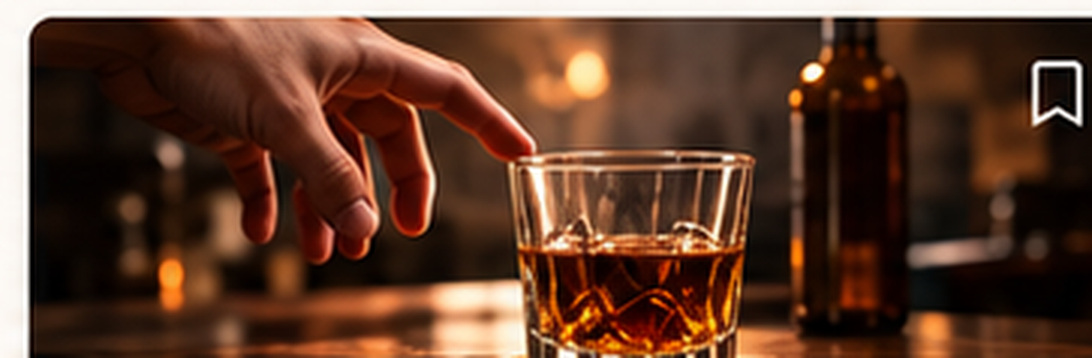
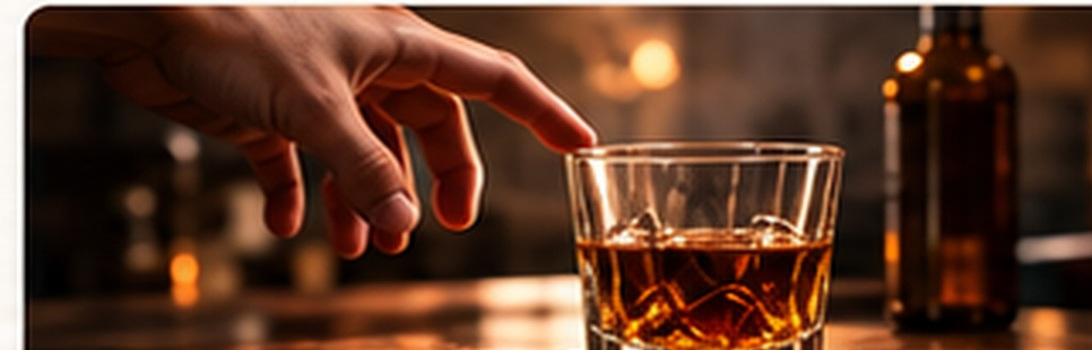
79

diff --git a/index.html b/index.html
@@ -71,10 +71,10 @@
     <span><b>PsyLab</b><small>APPRENDRE · S’ENTRAÎNER · PROGRESSER</small></span>
   </a>
   <nav class="ps-nav ps77-nav" aria-label="Navigation principale">
-    <a class="active" href="index.html"><svg class="ps77-nav-icon" viewBox="0 0 24 24" fill="none" stroke="currentColor" aria-hidden="true"><path d="M4 10.75 12 4l8 6.75"></path><path d="M6.5 9.7V20h11V9.7"></path><path d="M9.5 20v-6h5v6"></path></svg><span>Accueil</span></a>
+    <a class="active" href="index.html"><svg class="ps77-nav-icon ps77-nav-home" viewBox="0 0 24 24" aria-hidden="true"><path d="M3.6 10.6 12 3.7l8.4 6.9v9.1a1.4 1.4 0 0 1-1.4 1.4h-4.5v-6.2h-5v6.2H5a1.4 1.4 0 0 1-1.4-1.4v-9.1Z"/></svg><span>Accueil</span></a>
     <a href="labs.html"><svg viewBox="0 0 24 24" fill="none" stroke="currentColor"><path d="M12 3 3 8l9 5 9-5-9-5Z"></path><path d="m5 10 7 4 7-4v6l-7 4-7-4z"></path></svg><span>Labs</span></a>
     <a href="maintenance.html"><svg viewBox="0 0 24 24" fill="none" stroke="currentColor"><path d="M4 19V10M10 19V6M16 19v-8M22 19V3"></path></svg><span>Maintien</span></a>
-    <a href="competition.html"><svg class="ps77-nav-icon" viewBox="0 0 24 24" fill="none" stroke="currentColor" aria-hidden="true"><path d="M7 4h10v4a5 5 0 0 1-10 0V4Z"></path><path d="M7 6H4v1.5A4.5 4.5 0 0 0 8.5 12M17 6h3v1.5a4.5 4.5 0 0 1-4.5 4.5"></path><path d="M12 13v4M9 21h6M10 17h4"></path></svg><span>Le Vestiaire</span></a>
+    <a href="competition.html"><svg class="ps77-nav-icon ps77-nav-trophy" viewBox="0 0 24 24" aria-hidden="true"><path d="M7 3.5h10v3h3.2v2.1c0 3.3-2.2 5.9-5.4 6.4-.6.6-1.3 1.1-2.1 1.4v2.2h3.2v2H8.1v-2h3.2v-2.2c-.8-.3-1.5-.8-2.1-1.4-3.2-.5-5.4-3.1-5.4-6.4V6.5H7v-3Zm0 5H5.8v.1c0 1.7.8 3.1 2.2 3.8A7.7 7.7 0 0 1 7 8.5Zm10 0a7.7 7.7 0 0 1-1 3.9c1.4-.7 2.2-2.1 2.2-3.8v-.1H17Z"/></svg><span>Le Vestiaire</span></a>
     <a href="profile.html"><svg viewBox="0 0 24 24" fill="none" stroke="currentColor"><circle cx="12" cy="8" r="4"></circle><path d="M4.5 21a7.5 7.5 0 0 1 15 0"></path></svg><span>Profil</span></a>
   </nav>
   <div class="ps-actions ps77-actions">
@@ -98,7 +98,7 @@
 
   <section class="ps77-section ps77-labs-section">
     <div class="ps77-section-head">
-      <h2><svg class="ps77-section-icon ps77-labs-icon" viewBox="0 0 32 32" fill="none" stroke="currentColor" aria-hidden="true"><path d="m16 4 11 6-11 6L5 10l11-6Z"></path><path d="m5 15 11 6 11-6"></path><path d="m5 20 11 6 11-6"></path></svg><span data-copy="fr">Vos Labs</span><span data-copy="en">Your Labs</span></h2>
+      <h2><svg class="ps77-section-icon ps77-labs-icon" viewBox="0 0 32 32" aria-hidden="true"><path d="m16 3.5 12 6.4-12 6.4L4 9.9 16 3.5Zm-9.7 11L16 19.7l9.7-5.2 2.3 1.3L16 22.2 4 15.8l2.3-1.3Zm0 6L16 25.7l9.7-5.2 2.3 1.3L16 28.2 4 21.8l2.3-1.3Z"/></svg><span data-copy="fr">Vos Labs</span><span data-copy="en">Your Labs</span></h2>
       <a href="labs.html"><span data-copy="fr">Voir tous les Labs</span><span data-copy="en">See all Labs</span> <b>→</b></a>
     </div>
     <div class="ps77-labs" id="labsGrid"></div>
@@ -107,7 +107,7 @@
   <section class="ps77-section ps77-vestiaire-section">
     <a class="ps77-vestiaire" href="competition.html">
       <div class="ps77-vestiaire-copy">
-        <div class="ps77-vestiaire-title"><svg class="ps77-trophy-icon" viewBox="0 0 32 32" fill="none" stroke="currentColor" aria-hidden="true"><path d="M9 5h14v6a7 7 0 0 1-14 0V5Z"></path><path d="M9 8H5v2a6 6 0 0 0 6 6M23 8h4v2a6 6 0 0 1-6 6"></path><path d="M16 18v5M11 27h10M13 23h6"></path></svg><h2>Le Vestiaire</h2></div>
+        <div class="ps77-vestiaire-title"><svg class="ps77-trophy-icon" viewBox="0 0 40 40" aria-hidden="true"><path d="M11 5h18v5h5v3c0 5.9-3.9 10.6-9.5 11.4-1 1-2.2 1.8-3.5 2.3v3.8h5.5v3.5h-13v-3.5H19v-3.8a10.8 10.8 0 0 1-3.5-2.3C9.9 23.6 6 18.9 6 13v-3h5V5Zm0 9H9.5c.2 2.7 1.5 4.8 3.7 6a12.8 12.8 0 0 1-2.2-6Zm18 0a12.8 12.8 0 0 1-2.2 6c2.2-1.2 3.5-3.3 3.7-6H29Z"/></svg><h2>Le Vestiaire</h2></div>
         <h3><span data-copy="fr">Relevez le défi, entrez dans la compétition.</span><span data-copy="en">Take the challenge. Enter the competition.</span></h3>
         <p><span data-copy="fr">Deux challenges. Un classement. À vous de jouer.</span><span data-copy="en">Two challenges. One ranking. Your move.</span></p>
         <span class="ps77-vestiaire-cta"><span data-copy="fr">Accéder au Vestiaire</span><span data-copy="en">Enter the Vestiaire</span> <b>→</b></span>
@@ -125,10 +125,10 @@
 </main>
 
 <nav class="ps-mobile-nav ps77-mobile-nav" aria-label="Navigation mobile">
-<a class="active" href="index.html"><svg class="ps77-nav-icon" viewBox="0 0 24 24" fill="none" stroke="currentColor" aria-hidden="true"><path d="M4 10.75 12 4l8 6.75"></path><path d="M6.5 9.7V20h11V9.7"></path><path d="M9.5 20v-6h5v6"></path></svg><span>Accueil</span></a>
+<a class="active" href="index.html"><svg class="ps77-nav-icon ps77-nav-home" viewBox="0 0 24 24" aria-hidden="true"><path d="M3.6 10.6 12 3.7l8.4 6.9v9.1a1.4 1.4 0 0 1-1.4 1.4h-4.5v-6.2h-5v6.2H5a1.4 1.4 0 0 1-1.4-1.4v-9.1Z"/></svg><span>Accueil</span></a>
 <a href="labs.html"><svg viewBox="0 0 24 24" fill="none" stroke="currentColor"><path d="M12 3 3 8l9 5 9-5-9-5Z"></path><path d="m5 10 7 4 7-4v6l-7 4-7-4z"></path></svg><span>Labs</span></a>
 <a href="maintenance.html"><svg viewBox="0 0 24 24" fill="none" stroke="currentColor"><path d="M4 18V9M10 18V5M16 18v-7M22 18V2"></path></svg><span>Maintien</span></a>
-<a href="competition.html"><svg class="ps77-nav-icon" viewBox="0 0 24 24" fill="none" stroke="currentColor" aria-hidden="true"><path d="M7 4h10v4a5 5 0 0 1-10 0V4Z"></path><path d="M7 6H4v1.5A4.5 4.5 0 0 0 8.5 12M17 6h3v1.5a4.5 4.5 0 0 1-4.5 4.5"></path><path d="M12 13v4M9 21h6M10 17h4"></path></svg><span>Vestiaire</span></a>
+<a href="competition.html"><svg class="ps77-nav-icon ps77-nav-trophy" viewBox="0 0 24 24" aria-hidden="true"><path d="M7 3.5h10v3h3.2v2.1c0 3.3-2.2 5.9-5.4 6.4-.6.6-1.3 1.1-2.1 1.4v2.2h3.2v2H8.1v-2h3.2v-2.2c-.8-.3-1.5-.8-2.1-1.4-3.2-.5-5.4-3.1-5.4-6.4V6.5H7v-3Zm0 5H5.8v.1c0 1.7.8 3.1 2.2 3.8A7.7 7.7 0 0 1 7 8.5Zm10 0a7.7 7.7 0 0 1-1 3.9c1.4-.7 2.2-2.1 2.2-3.8v-.1H17Z"/></svg><span>Vestiaire</span></a>
 <a href="profile.html"><svg viewBox="0 0 24 24" fill="none" stroke="currentColor"><circle cx="12" cy="8" r="4"></circle><path d="M4.5 21a7.5 7.5 0 0 1 15 0"></path></svg><span>Profil</span></a>
 </nav>
 <button hidden id="logoutBtn"></button>

diff --git a/platform-v71.js b/platform-v71.js
@@ -8,7 +8,7 @@ function pct(ctx,key='bipolar'){if(preview&&key==='bipolar')return 46;const p=(c
 async function signedAvatar(c,path){if(!c||!path)return'';try{const {data,error}=await c.storage.from('avatars').createSignedUrl(path,3600);return error?'':data?.signedUrl||''}catch(_){return''}}
 function status(v,lang){v=String(v||'').toUpperCase();if(/^R[1-4]$/.test(v))return v;const fr={EXTERNE:'Externe',INTERNE:'Interne',ASSISTANT:'Assistant',PROFESSEUR:'Professeur'},en={EXTERNE:'Extern',INTERNE:'Intern',ASSISTANT:'Assistant',PROFESSEUR:'Professor'};return (lang==='en'?en:fr)[v]||v}
 function renderIdentity(ctx){const lang=window.PsyLabV60?.lang?.()||'fr',name=preview?'Nadia':(ctx?.profile?.display_name||ctx?.user?.user_metadata?.display_name||ctx?.user?.user_metadata?.full_name||ctx?.user?.email?.split('@')[0]||(lang==='en'?'User':'Utilisateur')),st=status(ctx?.profile?.professional_status||ctx?.profile?.residency_year,lang),h=new Date().getHours(),hello=lang==='en'?(h>=18?'Good evening':'Hello'):(h>=18?'Bonsoir':'Bonjour'),p=pct(ctx);if(q('#greeting'))q('#greeting').innerHTML=`${hello} <span>${esc(name)}</span>,`;if(q('#userMeta'))q('#userMeta').textContent=[st,`BipolarLab ${p}%`].filter(Boolean).join(' · ');if(q('#userName'))q('#userName').textContent=name;if(q('#userSub'))q('#userSub').textContent=st;if(q('#topAvatar')){q('#topAvatar').textContent=initials(name);signedAvatar(ctx?.client,ctx?.profile?.avatar_path).then(u=>{if(u&&q('#topAvatar'))q('#topAvatar').innerHTML=`<img src="${u}" alt="">`})}if(q('#resumePct'))q('#resumePct').textContent=p+'%';if(q('#resumeBar'))q('#resumeBar').style.width=p+'%'}
-function renderLabs(ctx){const lang=window.PsyLabV60?.lang?.()||'fr',box=q('#labsGrid');if(!box)return;const keys=['bipolar','psychosis','anxiety','addiction'];const previewPct={bipolar:38,psychosis:12,anxiety:0,addiction:0};box.innerHTML=keys.map(key=>{const active=key==='bipolar',p=preview?previewPct[key]:(active?pct(ctx,key):0),labels=display[lang]?.[key]||display.fr[key],href=active?'courses/bipolar/index.html':'labs.html',cta=active?(lang==='en'?'Resume Lab':'Reprendre le Lab'):(lang==='en'?'Start Lab':'Commencer le Lab');return `<a class="ps77-lab" href="${href}"><div class="ps77-lab-visual"><img src="${art[key]}" alt=""></div><div class="ps77-lab-body"><h3>${esc(labels[0])}</h3><p>${esc(labels[1])}</p><div class="ps77-lab-progress"><div class="ps-progress"><i style="width:${p}%"></i></div><strong>${p}%</strong></div><span class="ps77-lab-cta">${esc(cta)} <b>→</b></span></div></a>`}).join('')}
+function renderLabs(ctx){const lang=window.PsyLabV60?.lang?.()||'fr',box=q('#labsGrid');if(!box)return;const keys=['bipolar','psychosis','anxiety','addiction'];const previewPct={bipolar:38,psychosis:12,anxiety:0,addiction:0};box.innerHTML=keys.map(key=>{const active=key==='bipolar',p=preview?previewPct[key]:(active?pct(ctx,key):0),labels=display[lang]?.[key]||display.fr[key],href=active?'courses/bipolar/index.html':'labs.html',cta=active?(lang==='en'?'Resume Lab':'Reprendre le Lab'):(lang==='en'?'Start Lab':'Commencer le Lab');return `<a class="ps77-lab" href="${href}"><div class="ps77-lab-visual"><picture><source media="(max-width:860px)" srcset="assets/v79/mobile/${key==='psychosis'?'psychose':key==='anxiety'?'anxiete':key==='addiction'?'addicto':key}.jpg"><img src="${art[key]}" alt=""></picture><svg class="ps77-bookmark-icon" viewBox="0 0 24 28" aria-hidden="true"><path d="M5 3.5h14a1.5 1.5 0 0 1 1.5 1.5v19L12 18.8 3.5 24V5A1.5 1.5 0 0 1 5 3.5Z"/></svg></div><div class="ps77-lab-body"><h3>${esc(labels[0])}</h3><p>${esc(labels[1])}</p><div class="ps77-lab-progress"><div class="ps-progress"><i style="width:${p}%"></i></div><strong>${p}%</strong></div><span class="ps77-lab-cta">${esc(cta)} <b>→</b></span></div></a>`}).join('')}
 async function vestiaire(ctx){if(preview){q('#participantCount').textContent='126';q('#countdown').textContent='4 j';return}const c=ctx?.client;if(!c)return;try{const current=await c.rpc('get_current_challenge',{p_course_key:'bipolar'}),row=Array.isArray(current.data)?current.data[0]:current.data;if(!row)return;const lb=await c.rpc('get_challenge_leaderboard',{p_challenge_key:row.challenge_key,p_limit:100}),rows=lb.data||[];if(q('#participantCount'))q('#participantCount').textContent=String(rows.length);const end=new Date(row.ends_at);if(!Number.isNaN(end.getTime())){const rem=Math.max(0,end-Date.now()),d=Math.floor(rem/86400000),h=Math.floor((rem%86400000)/3600000);if(q('#countdown'))q('#countdown').textContent=`${d} j ${h} h`}}catch(_){}}
 function render(ctx){renderIdentity(ctx);renderLabs(ctx);vestiaire(ctx)}
 window.addEventListener('psylab:v60-ready',e=>render(e.detail));

diff --git a/psylab-home-v77.css b/psylab-home-v77.css
@@ -341,3 +341,115 @@
   .ps77-vestiaire{background-image:url('assets/v79/vestiaire-exact.jpg');background-position:58% center;min-height:164px}
   .ps77-vestiaire h2{font-size:1.88rem}.ps77-vestiaire h3{font-size:.94rem}
 }
+
+
+/* V79.3 — visual asset calibration: no baked UI chrome, full icons, dedicated mobile crops */
+.ps77-nav .ps77-nav-home,
+.ps77-mobile-nav .ps77-nav-home,
+.ps77-nav .ps77-nav-trophy,
+.ps77-mobile-nav .ps77-nav-trophy{
+  fill:currentColor!important;
+  stroke:none!important;
+  overflow:visible;
+}
+
+.ps77-section-icon.ps77-labs-icon{
+  fill:currentColor!important;
+  stroke:none!important;
+  overflow:visible;
+}
+
+.ps77-trophy-icon{
+  fill:#e4ad58!important;
+  stroke:none!important;
+  overflow:visible;
+  padding:1px;
+  box-sizing:border-box;
+}
+
+/* Lab illustrations are now clean assets.  Match the source ratio so the artwork
+   is shown in full instead of being cropped by object-fit: cover. */
+.ps77-lab-visual{
+  position:relative;
+  aspect-ratio:1092 / 350!important;
+  height:auto!important;
+  overflow:hidden;
+  background:#241512;
+}
+.ps77-lab-visual picture{
+  display:block;
+  width:100%;
+  height:100%;
+}
+.ps77-lab-visual picture img,
+.ps77-lab-visual>img{
+  width:100%;
+  height:100%;
+  display:block;
+  object-fit:fill!important;
+  object-position:center!important;
+}
+
+/* The bookmark is real UI now, not baked into the illustration. */
+.ps77-bookmark-icon{
+  position:absolute;
+  z-index:2;
+  top:10px;
+  right:10px;
+  width:20px;
+  height:24px;
+  fill:rgba(18,17,16,.28);
+  stroke:#fff;
+  stroke-width:1.8;
+  stroke-linejoin:round;
+  filter:drop-shadow(0 1px 2px rgba(0,0,0,.28));
+  overflow:visible;
+}
+
+/* Keep the large editorial scenes at their native proportions. */
+@media(min-width:861px){
+  .ps77-hero{
+    aspect-ratio:1600 / 340!important;
+    background-size:100% 100%!important;
+    background-position:center!important;
+  }
+  .ps77-vestiaire{
+    aspect-ratio:1600 / 350!important;
+    background-size:100% 100%!important;
+    background-position:center!important;
+  }
+}
+
+/* Dedicated mobile thumbnails are taken from the validated mobile composition.
+   They fill their slot without asking the desktop panorama to crop itself. */
+@media(max-width:860px){
+  .ps77-lab{
+    grid-template-columns:94px minmax(0,1fr)!important;
+    align-items:stretch;
+  }
+  .ps77-lab-visual{
+    width:94px;
+    height:63px!important;
+    aspect-ratio:auto!important;
+    align-self:start;
+    border-radius:7px 0 0 7px;
+  }
+  .ps77-lab-visual picture,
+  .ps77-lab-visual picture img{
+    width:100%;
+    height:100%;
+  }
+  .ps77-lab-visual picture img{
+    object-fit:cover!important;
+  }
+  .ps77-bookmark-icon{display:none!important}
+
+  .ps77-hero{
+    background-size:cover!important;
+    background-position:64% center!important;
+  }
+  .ps77-vestiaire{
+    background-size:cover!important;
+    background-position:58% center!important;
+  }
+}
